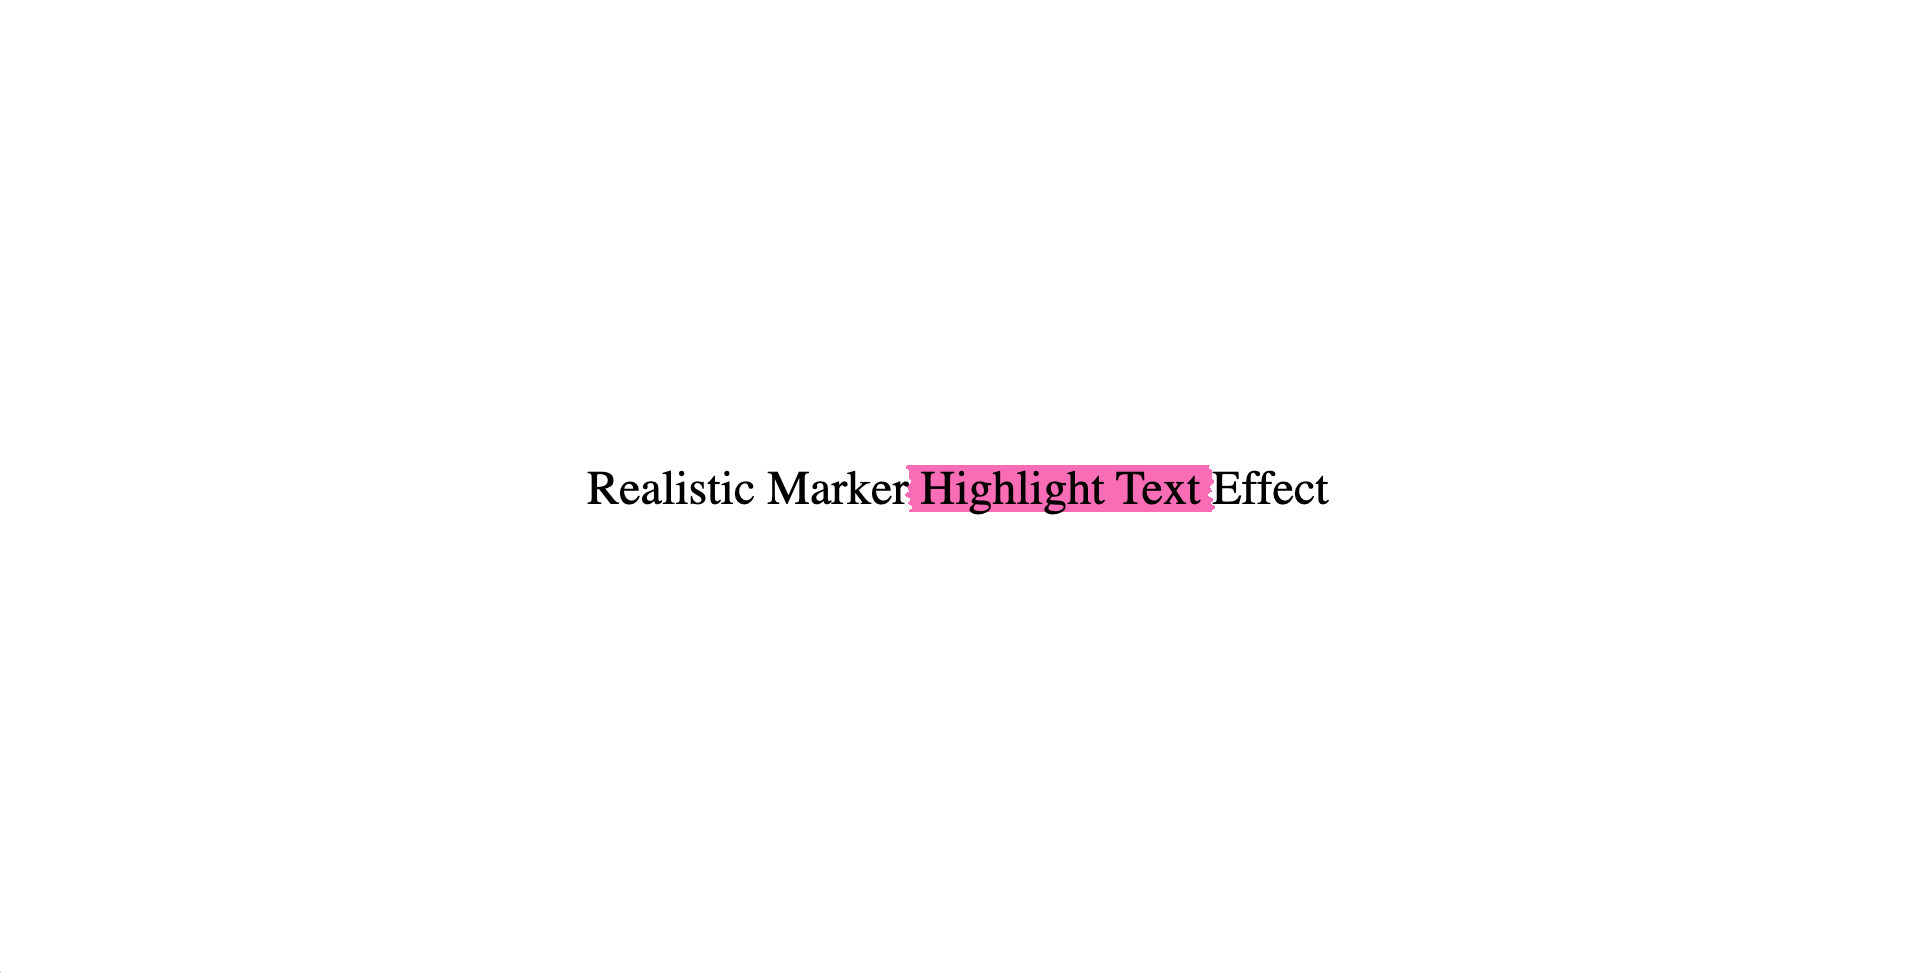
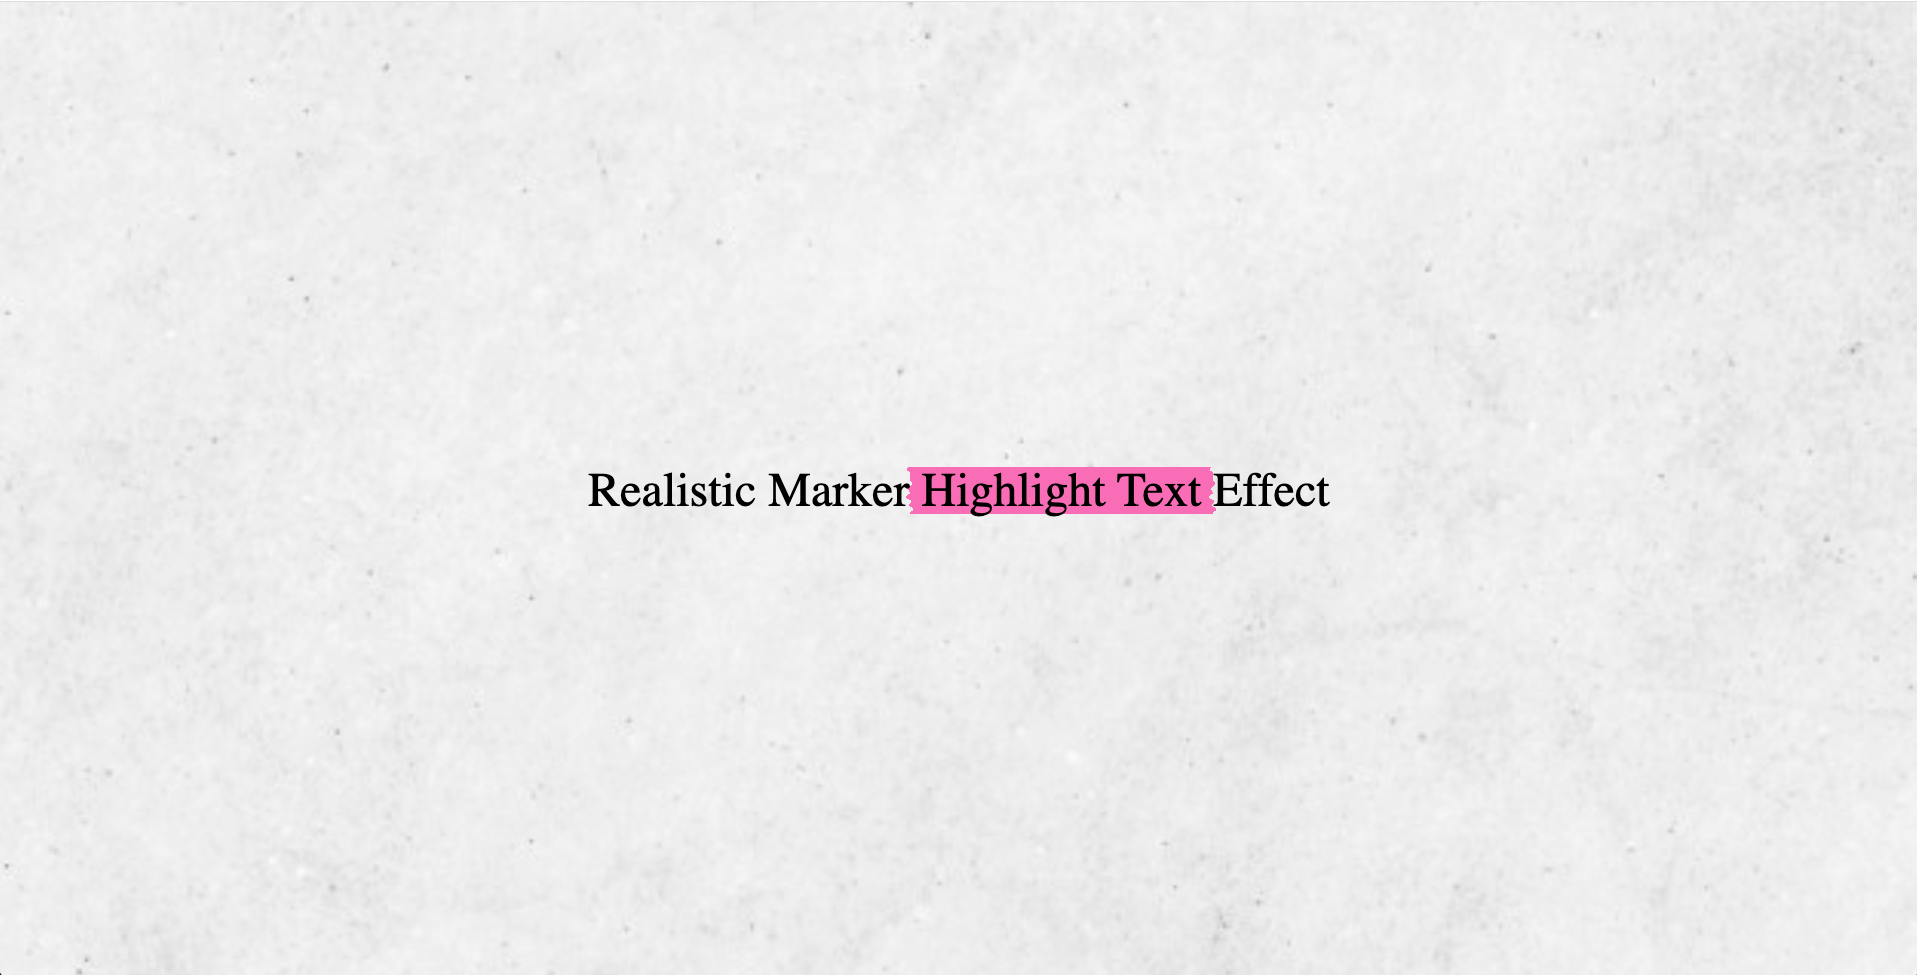
global welcome page was added

diff --git a/index.js b/index.js
@@ -1,0 +1,31 @@
+import './card-tile.js';
+
+const projects = [
+    'card',
+    'clock',
+    'curved-background',
+    'gradient-loader',
+    'horizontal-scroll',
+    'lantern-effect',
+    'neon-button',
+    'parallax-scroll',
+    'ribbon',
+    'sliding-menu',
+    'social-icons',
+    'text-highlight'
+];
+
+const articlesGridWrapper = document.getElementById('articles-grid-wrapper');
+
+projects.forEach(project => {
+    createCardTile(project);
+});
+
+function createCardTile(projectName) {
+    const cardTileElement = document.createElement('card-tile');
+    cardTileElement.cardTile = projectName;
+
+    articlesGridWrapper.appendChild(cardTileElement);
+}
+
+// createCardTile('projectName');

diff --git a/card-tile.js b/card-tile.js
@@ -1,0 +1,21 @@
+class CardTile extends HTMLElement {
+    formatName = (projectName) => {
+        return projectName.split('-').join(' ')
+    }
+
+    set cardTile(project) {
+
+        this.innerHTML = `
+        <a href="${project}/index.html">
+            <div class="card">
+                <img src="${project}/result.png" alt="thumbnail for ${project}" style="width:100%">
+                <div class="card-container">
+                    <h4><b>${this.formatName(project)}</b></h4>
+                </div>
+            </div>
+        </a>
+        `
+    }
+}
+
+customElements.define('card-tile', CardTile)

diff --git a/styles.css b/styles.css
@@ -1,0 +1,35 @@
+* {
+    margin: 0;
+    padding: 0;
+    box-sizing: border-box;
+}
+
+body {
+    background-color: #fafafa;
+}
+
+#articles-grid-wrapper {
+    display: grid;
+    grid-template-columns: 1fr 1fr 1fr;
+    grid-gap: 1em;
+    padding: 10px;
+}
+
+card-tile a {
+    text-decoration: none;
+}
+
+card-tile .card {
+    box-shadow: 0 4px 8px 0 rgba(0,0,0,0.2);
+    transition: 0.3s;
+    padding: 16px;
+}
+
+card-tile .card:hover {
+    box-shadow: 0 8px 16px 0 rgba(0,0,0,0.2);
+}
+
+card-tile .card-container {
+    padding: 12px 0 0;
+    color: black;
+}

diff --git a/web-component/style.css b/web-component/style.css
@@ -13,7 +13,11 @@ main {
     grid-auto-flow: row dense;
 }
 
-/*If we use shadow DOM, then these styles need to be declared inside component, but without its parent tag (e.g. without "news-article", just "h2")*/
+/*
+If we use shadow DOM, then these styles need to be declared inside component,
+but without its parent tag (e.g. without "news-article", just "h2")
+Since news-article uses shadow Dow, then it means that below styles won't work and may be removed
+*/
 news-article h2 {
     font-family: Georgia, 'Times New Roman', Times, serif;
     color: red;

diff --git a/index.html b/index.html
@@ -1,0 +1,18 @@
+<!DOCTYPE html>
+<html lang="en">
+
+<head>
+    <meta charset="UTF-8">
+    <title>Igor Gonchar css projects</title>
+    <link rel="stylesheet" href="styles.css">
+</head>
+
+<body>
+<ul id="projects-list">
+</ul>
+
+<div id="articles-grid-wrapper"></div>
+
+<script src="./index.js" type="module"></script>
+</body>
+</html>

diff --git a/text-highlight/style.css b/text-highlight/style.css
@@ -9,7 +9,8 @@ body {
     justify-content: center;
     align-items: center;
     min-height: 100vh;
-    background: white;
+    background: url("assets/bg.jpeg");
+    background-size: cover;
     font-family: consolas, serif;
 }
 

diff --git a/web-component/index.html b/web-component/index.html
@@ -17,7 +17,7 @@
 
 </main>
 
-<!--type="module" - allowas to use "import" inside .js file-->
+<!--type="module" - allows to use "import" inside .js file-->
 <script src="./index.js" type="module"></script>
 </body>
 
